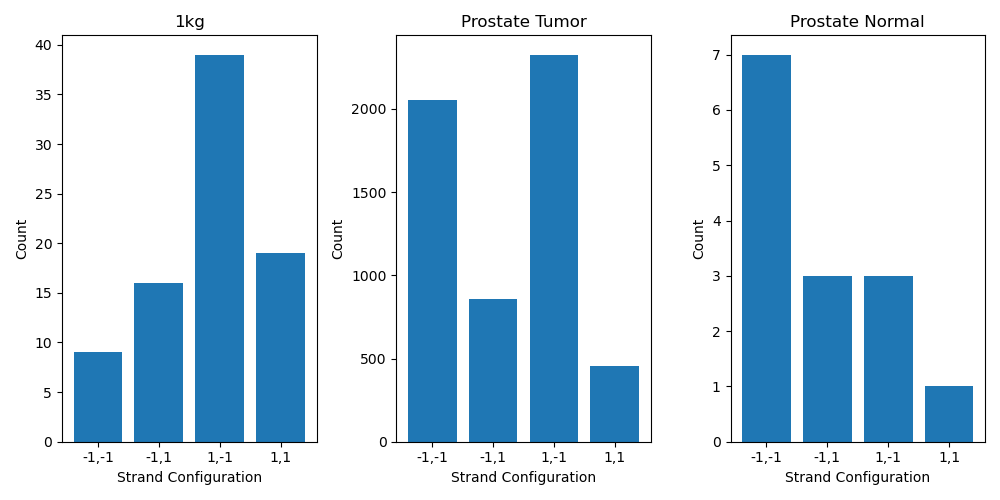
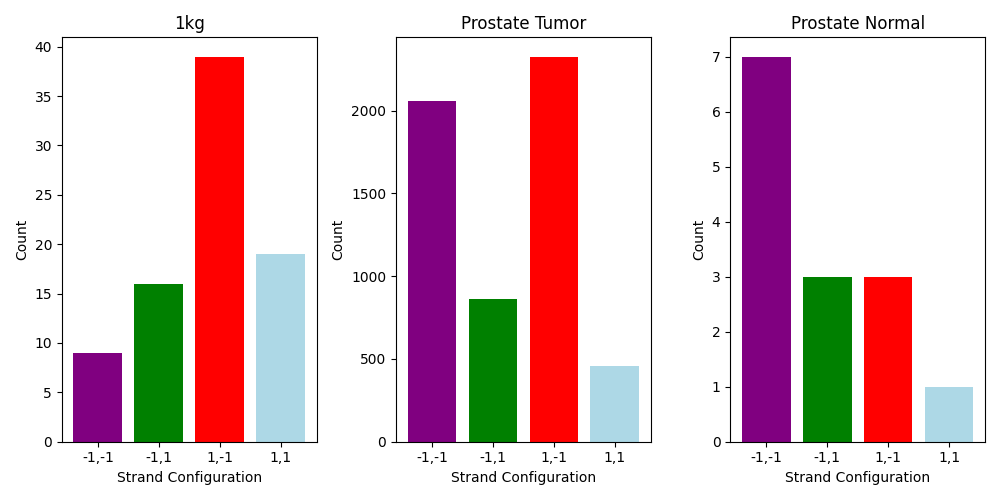
scatter et2 bps stratif by strand config

diff --git a/results/2026_05-erg_tmprss2-strands/scatter_breakpoint_strands_labeled.py b/results/2026_05-erg_tmprss2-strands/scatter_breakpoint_strands_labeled.py
@@ -1,0 +1,105 @@
+#!/usr/bin/env python
+
+import gzip
+import glob
+import pandas as pd
+import matplotlib.pyplot as plt
+import numpy as np
+
+
+SEED=0
+np.random.seed(SEED)
+
+def get_sample_breakpoints(df):
+    sample_ranges = (
+        df.groupby('sample').agg(
+            left_bp=('left_start', 'min'),
+            right_bp=('right_start', 'max')
+        )
+    )
+    sample_ranges.reset_index(inplace=True)
+    return sample_ranges
+
+filename_intersect='ERG.giggle.clean.swap.intersect.bed.gz'
+intervals_1kg_file = f'./g2f_out/high_coverage_1000g_dna/{filename_intersect}'
+intervals_prostate_tumor_file = f'./g2f_out/prostate_tumor/{filename_intersect}'
+intervals_prostate_normal_file = f'./g2f_out/prostate_normal/{filename_intersect}'
+
+col_idxs = [3] + list(range(5,13)) + [14]
+
+columns = ['right_gene', 'right_chromosome', 'right_start', 'right_end', 'right_strand', 'left_chromosome', 'left_start', 'left_end', 'left_strand', 'sample']
+
+df_1kg = pd.read_csv(intervals_1kg_file, sep='\t', header=None, usecols=col_idxs, comment='#')
+df_1kg.columns = columns
+df_1kg = df_1kg[df_1kg['right_gene'] == 'TMPRSS2']
+df_1kg['strand_config'] = df_1kg.apply(lambda row: f"{row['left_strand']},{row['right_strand']}", axis=1)
+df_1kg['cohort'] = '1kg'
+breakpoints_1kg = get_sample_breakpoints(df_1kg)
+df_1kg = pd.merge(df_1kg, breakpoints_1kg, on='sample', how='left')
+
+df_prostate_tumor = pd.read_csv(intervals_prostate_tumor_file, sep='\t', header=None, usecols=col_idxs, comment='#')
+df_prostate_tumor.columns = columns
+df_prostate_tumor = df_prostate_tumor[df_prostate_tumor['right_gene'] == 'TMPRSS2']
+df_prostate_tumor['strand_config'] = df_prostate_tumor.apply(lambda row: f"{row['left_strand']},{row['right_strand']}", axis=1)
+df_prostate_tumor['cohort'] = 'prostate_tumor'
+breakpoints_prostate_tumor = get_sample_breakpoints(df_prostate_tumor)
+df_prostate_tumor = pd.merge(df_prostate_tumor, breakpoints_prostate_tumor, on='sample', how='left')
+
+
+df_prostate_normal = pd.read_csv(intervals_prostate_normal_file, sep='\t', header=None, usecols=col_idxs, comment='#')
+df_prostate_normal.columns = columns
+df_prostate_normal = df_prostate_normal[df_prostate_normal['right_gene'] == 'TMPRSS2']
+df_prostate_normal['strand_config'] = df_prostate_normal.apply(lambda row: f"{row['left_strand']},{row['right_strand']}", axis=1)
+df_prostate_normal['cohort'] = 'prostate_normal'
+breakpoints_prostate_normal = get_sample_breakpoints(df_prostate_normal)
+df_prostate_normal = pd.merge(df_prostate_normal, breakpoints_prostate_normal, on='sample', how='left')
+
+df_concat = pd.concat([df_1kg, df_prostate_tumor, df_prostate_normal], ignore_index=True)
+
+# scatter plot of left and right breakpoints colored by strand config
+color_map = {
+    '1,1': 'lightblue',
+    '1,-1': 'red',
+    '-1,1': 'green',
+    '-1,-1': 'purple'
+}
+marker_map = {
+	'1,1': '.',
+	'1,-1': 'v',
+	'-1,1': '^',
+	'-1,-1': '<'
+}
+df_concat['color'] = df_concat['strand_config'].map(color_map)
+# add jitter
+df_concat['left_bp'] = df_concat['left_bp'] + np.random.normal(0, 1000, size=len(df_concat))
+df_concat['right_bp'] = df_concat['right_bp'] + np.random.normal(0, 1000, size=len(df_concat))
+cohorts = ['1kg', 'prostate_tumor', 'prostate_normal']
+strand_configs = ['1,1', '1,-1', '-1,1', '-1,-1']
+fig, ax = plt.subplots(len(cohorts), len(strand_configs), figsize=(14, 9), sharex=True, sharey=True)
+for row_index, cohort in enumerate(cohorts):
+    cohort_df = df_concat[df_concat['cohort'] == cohort]
+    for col_index, strand_config in enumerate(strand_configs):
+        axis = ax[row_index, col_index]
+        strand_df = cohort_df[cohort_df['strand_config'] == strand_config]
+        if not strand_df.empty:
+            axis.scatter(
+                strand_df['left_bp'],
+                strand_df['right_bp'],
+                alpha=0.7,
+                c=color_map.get(strand_config, 'gray'),
+                s=3,
+                marker=marker_map.get(strand_config, '.')
+            )
+        if row_index == 0:
+            axis.set_title(strand_config)
+        if col_index == 0:
+            axis.set_ylabel(f'{cohort}\nTMPRSS2 Breakpoint')
+        if row_index == len(cohorts) - 1:
+            axis.set_xlabel('ERG Breakpoint')
+        axis.tick_params(labelsize=8)
+plt.tight_layout()
+fig.legend(handles=[plt.Line2D([0], [0], marker='.', color='w', label='1,1', markerfacecolor='lightblue', markersize=5),
+					plt.Line2D([0], [0], marker='v', color='w', label='1,-1', markerfacecolor='red', markersize=5),
+					plt.Line2D([0], [0], marker='^', color='w', label='-1,1', markerfacecolor='green', markersize=5),
+					plt.Line2D([0], [0], marker='<', color='w', label='-1,-1', markerfacecolor='purple', markersize=5)], loc='upper center', ncol=4, frameon=False, bbox_to_anchor=(0.5, 1.02))
+plt.savefig('breakpoint_scatter_strand_config.png')

diff --git a/results/2026_05-erg_tmprss2-strands/count_strand_configs.py b/results/2026_05-erg_tmprss2-strands/count_strand_configs.py
@@ -33,20 +33,39 @@ df_prostate_normal['cohort'] = 'prostate_normal'
 
 df_concat = pd.concat([df_1kg, df_prostate_tumor, df_prostate_normal], ignore_index=True)
 # barplot strand configs by cohort
+color_map = {
+    '1,1': 'lightblue',
+    '1,-1': 'red',
+    '-1,1': 'green',
+    '-1,-1': 'purple'
+}
 strand_config_counts = df_concat.groupby(['cohort', 'strand_config']).size().reset_index(name='count')
+strand_config_counts['color'] = strand_config_counts['strand_config'].map(color_map)
 fig, ax = plt.subplots(1,3,figsize=(10, 5))
 
-ax[0].bar(strand_config_counts[strand_config_counts['cohort'] == '1kg']['strand_config'], strand_config_counts[strand_config_counts['cohort'] == '1kg']['count'])
+ax[0].bar(
+    strand_config_counts[strand_config_counts['cohort'] == '1kg']['strand_config'],
+    strand_config_counts[strand_config_counts['cohort'] == '1kg']['count'],
+    color=strand_config_counts[strand_config_counts['cohort'] == '1kg']['color']
+)
 ax[0].set_title('1kg')
 ax[0].set_xlabel('Strand Configuration')
 ax[0].set_ylabel('Count')
 
-ax[1].bar(strand_config_counts[strand_config_counts['cohort'] == 'prostate_tumor']['strand_config'], strand_config_counts[strand_config_counts['cohort'] == 'prostate_tumor']['count'])
+ax[1].bar(
+    strand_config_counts[strand_config_counts['cohort'] == 'prostate_tumor']['strand_config'],
+    strand_config_counts[strand_config_counts['cohort'] == 'prostate_tumor']['count'],
+    color=strand_config_counts[strand_config_counts['cohort'] == 'prostate_tumor']['color']
+)
 ax[1].set_title('Prostate Tumor')
 ax[1].set_xlabel('Strand Configuration')
 ax[1].set_ylabel('Count')
 
-ax[2].bar(strand_config_counts[strand_config_counts['cohort'] == 'prostate_normal']['strand_config'], strand_config_counts[strand_config_counts['cohort'] == 'prostate_normal']['count'])
+ax[2].bar(
+    strand_config_counts[strand_config_counts['cohort'] == 'prostate_normal']['strand_config'],
+    strand_config_counts[strand_config_counts['cohort'] == 'prostate_normal']['count'],
+    color=strand_config_counts[strand_config_counts['cohort'] == 'prostate_normal']['color']
+)
 ax[2].set_title('Prostate Normal')
 ax[2].set_xlabel('Strand Configuration')
 ax[2].set_ylabel('Count')